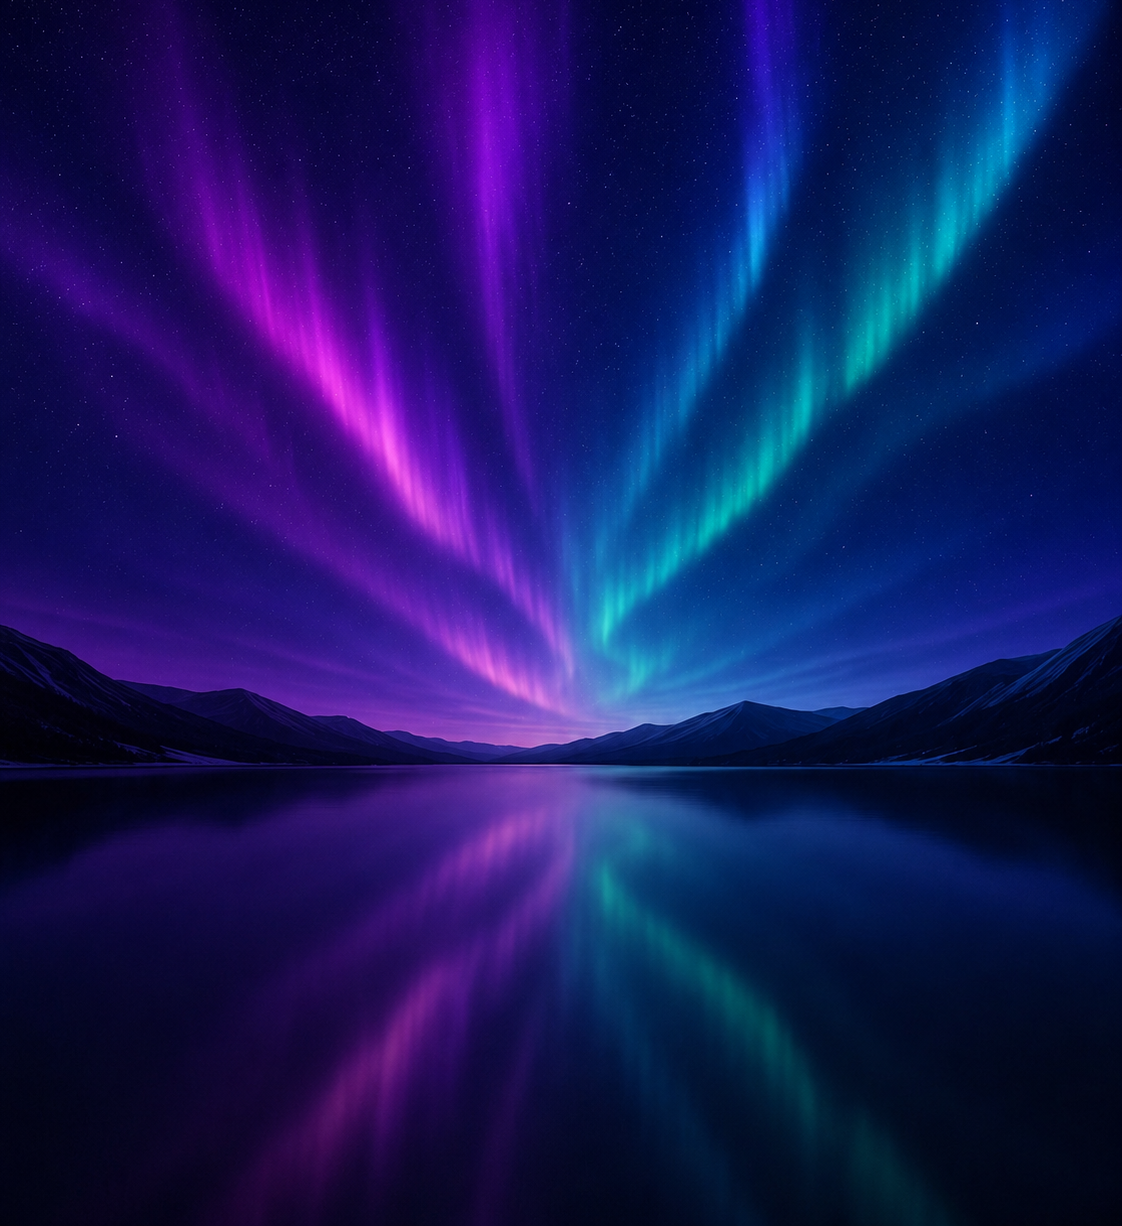
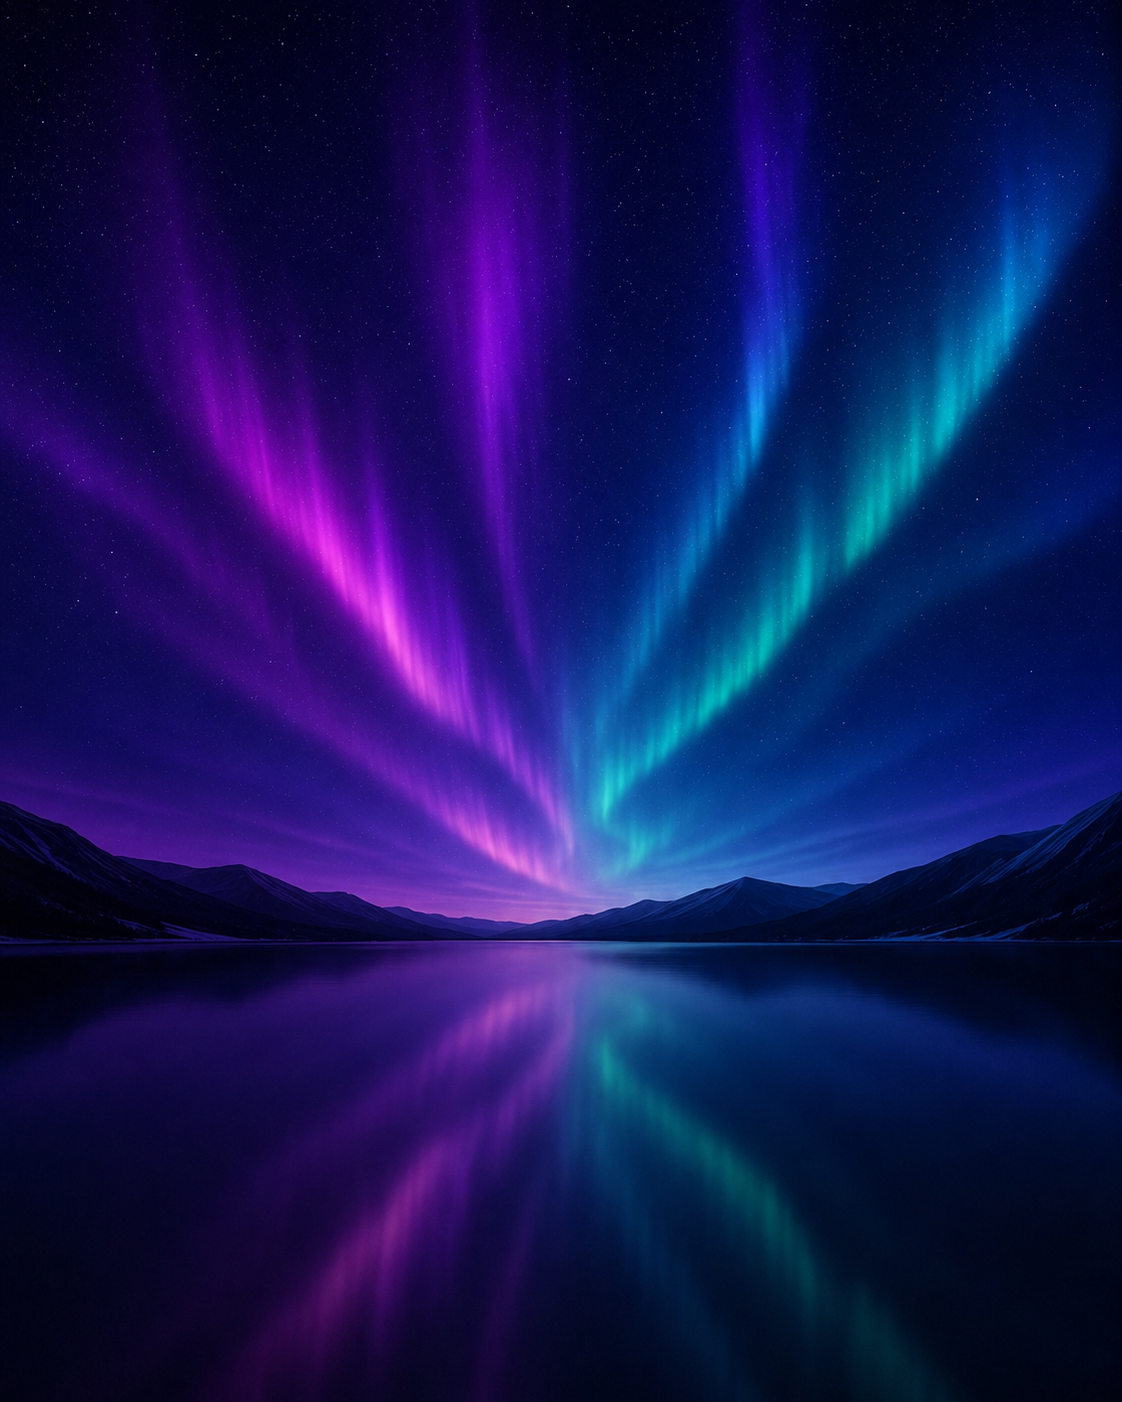
Chat-based update

diff --git a/src/styles.css b/src/styles.css
@@ -838,3 +838,33 @@ body{background:#050713}
     background-position:center 72%;
   }
 }
+
+
+/* Lynera deterministic aurora positioning v19.
+   The source image is portrait-oriented and, with background-size: cover,
+   has no vertical overflow in this hero. That made background-position-y a
+   no-op. Render it as a separate oversized layer so its vertical offset is
+   explicit and reliable across iPhone/PWA layouts. */
+.pattern-hero{
+  background-image:none;
+}
+.pattern-background-image{
+  position:absolute;
+  z-index:-2;
+  top:-95px;
+  left:50%;
+  width:116%;
+  height:calc(100% + 150px);
+  transform:translateX(-50%);
+  object-fit:cover;
+  object-position:center;
+  pointer-events:none;
+  user-select:none;
+}
+@media(max-width:520px){
+  .pattern-background-image{
+    top:-92px;
+    width:118%;
+    height:calc(100% + 145px);
+  }
+}

diff --git a/src/screens/Home.tsx b/src/screens/Home.tsx
@@ -35,6 +35,7 @@ export function Home({
   return (
     <main className="home-screen">
       <section className="pattern-hero" style={{ '--aurora-image': `url(${auroraHome})` } as CSSProperties} aria-labelledby="pattern-overview-title">
+        <img className="pattern-background-image" src={auroraHome} alt="" aria-hidden="true" />
         <div className="pattern-content">
           <p className="hero-kicker" id="pattern-overview-title">Your pattern overview</p>
 

diff --git a/public/sw.js b/public/sw.js
@@ -1,4 +1,4 @@
-const CACHE = 'lynera-v18';
+const CACHE = 'lynera-v19';
 const base = new URL('./', self.location.href).pathname;
 const core = [base, `${base}manifest.webmanifest`, `${base}icons/icon-192.png`, `${base}icons/icon-512.png`, `${base}icons/apple-touch-icon.png`];
 self.addEventListener('install', event => event.waitUntil(caches.open(CACHE).then(cache => cache.addAll(core)).then(() => self.skipWaiting())));

diff --git a/BACKGROUND_LAYER_UPDATE.md b/BACKGROUND_LAYER_UPDATE.md
@@ -1,0 +1,8 @@
+# Lynera v19 background-layer update
+
+This update replaces the Home hero's CSS background rendering with a dedicated, absolutely positioned image layer. The source portrait image had no vertical overflow under `background-size: cover`, so changing `background-position-y` did not visibly move it on the iPhone layout.
+
+Changed files:
+- `src/screens/Home.tsx`: adds the existing aurora image as a decorative background layer.
+- `src/styles.css`: positions the background layer with an explicit vertical offset while leaving all foreground layout unchanged.
+- `public/sw.js`: increments the PWA cache to `lynera-v19`.
